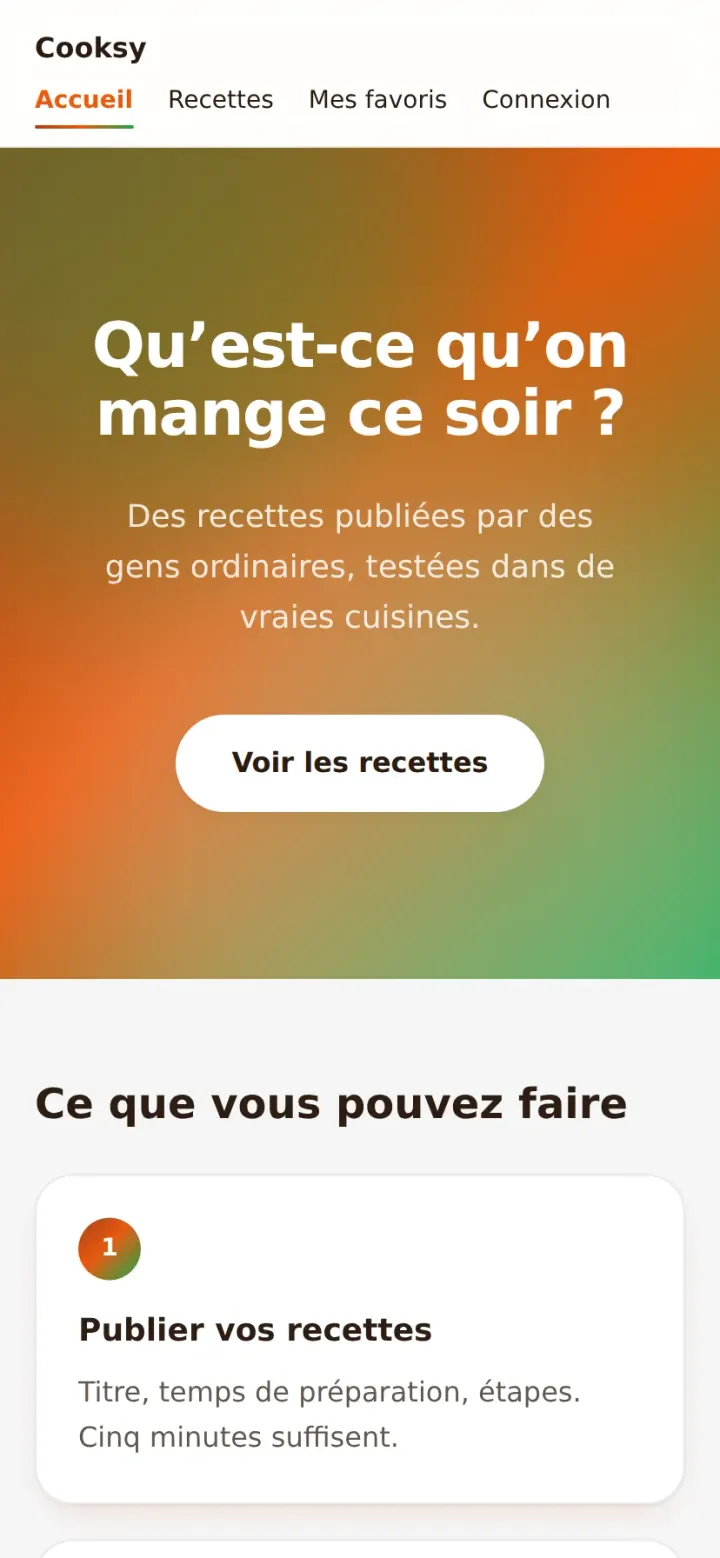
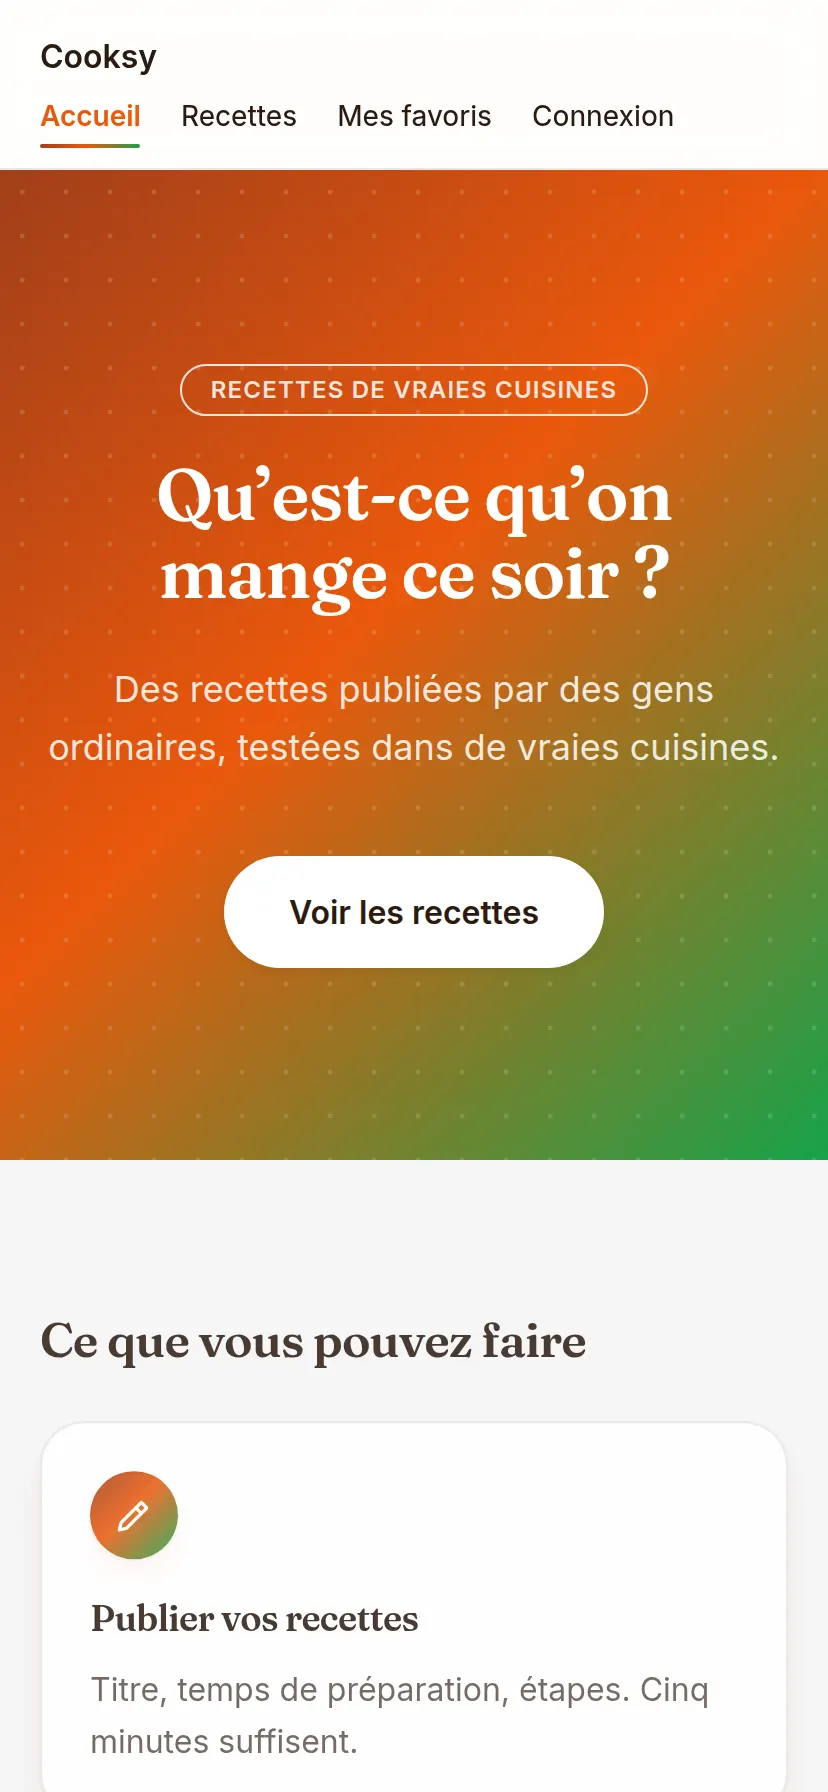
Page d'accueil : six démonstrations qui donnent envie
Chaque démo a maintenant son style (polices, motif, palette), un surtitre,
des icônes sur ses atouts, et selon le métier des étapes, un tableau
comparatif ou des chiffres. Les textes des cartes disent le bénéfice en
une phrase et le prix en clair ; la section annonce six vraies applications
à ouvrir. Captures refaites sur les nouvelles versions.

Claude-Session: https://claude.ai/code/session_0159E9jSQkCegippfh66bzCy

diff --git a/src/server/demos/catalog.ts b/src/server/demos/catalog.ts
@@ -33,9 +33,9 @@ const SHARED: { locale: AppSpec['locale']; specVersion: 1 } = { locale: 'fr', sp
 const RAW_DEMOS: readonly DemoApp[] = [
   {
     slug: 'devisflow',
-    category: 'Outil métier · B2B',
-    summary: 'Devis, suivi des clients et relances pour les artisans.',
-    priceLabel: '19 € par mois',
+    category: 'Artisans · Outil métier',
+    summary: 'Le devis part le soir même, la relance part toute seule, et l’artisan reste sur le chantier.',
+    priceLabel: '19 € par mois et par artisan',
     shotAlt: "Page d'accueil de DevisFlow, une application de devis pour artisans",
     spec: {
       ...SHARED,
@@ -53,8 +53,10 @@ const RAW_DEMOS: readonly DemoApp[] = [
           muted: '#d8dcea',
         },
         radius: 'medium',
-        font: 'system',
+        font: 'geometric',
         mode: 'light',
+        pattern: 'grid',
+        density: 'balanced',
       },
       auth: { enabled: true, allowSignup: false },
       dataModels: [
@@ -86,6 +88,7 @@ const RAW_DEMOS: readonly DemoApp[] = [
             {
               id: 'hero',
               type: 'hero',
+              eyebrow: 'Pour les artisans du bâtiment',
               title: 'Le devis qui part le soir même',
               subtitle:
                 "Rédigez, envoyez, relancez. DevisFlow suit vos clients pendant que vous êtes sur le chantier.",
@@ -100,15 +103,29 @@ const RAW_DEMOS: readonly DemoApp[] = [
                 {
                   title: 'Devis en trois minutes',
                   body: 'Vos prestations habituelles sont enregistrées : un devis se compose en quelques clics.',
+                  icon: 'pen',
                 },
                 {
                   title: 'Relances automatiques',
                   body: "Un client n'a pas répondu depuis huit jours ? Il reçoit un rappel, sans que vous y pensiez.",
+                  icon: 'bell',
                 },
                 {
                   title: 'Suivi clair',
                   body: 'Envoyés, acceptés, refusés : vous savez en un coup d’œil où vous en êtes.',
+                  icon: 'chart',
                 },
+              ],
+            },
+            {
+              id: 'etapes',
+              type: 'steps',
+              title: 'Du chantier au devis signé',
+              items: [
+                { title: 'Vous choisissez vos prestations', body: 'Dans votre liste, avec vos prix. Rien à retaper.', icon: 'check' },
+                { title: 'Le devis part', body: 'Par e-mail, depuis le téléphone, avec vos mentions légales.', icon: 'mail' },
+                { title: 'DevisFlow relance', body: 'Huit jours sans réponse : un rappel poli part tout seul.', icon: 'bell' },
+                { title: 'Vous signez', body: 'Accepté, refusé, à relancer : tout est dans la même liste.', icon: 'star' },
               ],
             },
             {
@@ -118,6 +135,18 @@ const RAW_DEMOS: readonly DemoApp[] = [
                 { label: 'Temps par devis', value: '3 minutes' },
                 { label: 'Relances à écrire', value: 'Aucune' },
                 { label: 'Sur le chantier', value: 'Depuis le téléphone' },
+              ],
+            },
+            {
+              id: 'comparatif',
+              type: 'comparison',
+              title: 'DevisFlow ou le carnet',
+              columns: ['DevisFlow', 'Carnet et tableur'],
+              rows: [
+                { label: 'Devis envoyé le jour même', values: ['✓', 'Le week-end'] },
+                { label: 'Relance sans y penser', values: ['✓', '—'] },
+                { label: 'Prestations mémorisées', values: ['✓', '—'] },
+                { label: 'Vue de tous les devis en cours', values: ['✓', 'À la main'] },
               ],
             },
             {
@@ -201,9 +230,9 @@ const RAW_DEMOS: readonly DemoApp[] = [
   },
   {
     slug: 'bookizy',
-    category: 'Réservation · Indépendants',
-    summary: 'Prise de rendez-vous pour coachs, thérapeutes et indépendants.',
-    priceLabel: '14 € par mois',
+    category: 'Indépendants · Réservation',
+    summary: 'Vos clients réservent seuls, à toute heure, et reçoivent un rappel la veille. Votre agenda se remplit pendant vos séances.',
+    priceLabel: '14 € par mois, sans commission',
     shotAlt: 'Page de réservation de Bookizy, avec agenda et créneaux',
     spec: {
       ...SHARED,
@@ -257,6 +286,7 @@ const RAW_DEMOS: readonly DemoApp[] = [
             {
               id: 'hero',
               type: 'hero',
+              eyebrow: 'Coachs, thérapeutes, indépendants',
               title: 'Réservez votre séance en trente secondes',
               subtitle:
                 'Choisissez un créneau, recevez votre confirmation, et un rappel la veille. Rien à installer.',
@@ -401,8 +431,8 @@ const RAW_DEMOS: readonly DemoApp[] = [
   {
     slug: 'fitpilot',
     category: 'Sport · Grand public',
-    summary: 'Programmes personnalisés et suivi de progression.',
-    priceLabel: '9,90 € par mois',
+    summary: 'Un programme qui s’adapte aux semaines chargées au lieu de culpabiliser. Chaque séance enregistrée, la progression visible.',
+    priceLabel: 'Gratuit pour essayer, puis 9,90 € par mois',
     shotAlt: 'Interface sombre de FitPilot, application de suivi d’entraînement',
     spec: {
       ...SHARED,
@@ -420,8 +450,10 @@ const RAW_DEMOS: readonly DemoApp[] = [
           muted: '#334155',
         },
         radius: 'large',
-        font: 'rounded',
+        font: 'bold',
         mode: 'dark',
+        pattern: 'grid',
+        density: 'balanced',
       },
       auth: { enabled: true, allowSignup: false },
       dataModels: [
@@ -454,6 +486,7 @@ const RAW_DEMOS: readonly DemoApp[] = [
             {
               id: 'hero',
               type: 'hero',
+              eyebrow: 'Programme adaptatif',
               title: 'Un programme qui tient compte de vos semaines chargées',
               subtitle:
                 'Trois séances prévues, deux réalisées ? Le programme s’ajuste au lieu de vous culpabiliser.',
@@ -477,15 +510,28 @@ const RAW_DEMOS: readonly DemoApp[] = [
                 {
                   title: 'Séances guidées',
                   body: 'Chaque exercice est expliqué, avec le temps de repos et la charge conseillée.',
+                  icon: 'play',
                 },
                 {
                   title: 'Progression visible',
                   body: 'Vos charges et vos durées se comparent d’une semaine à l’autre.',
+                  icon: 'chart',
                 },
                 {
                   title: 'Objectifs réalistes',
                   body: 'Vous indiquez votre temps disponible, le programme se cale dessus.',
+                  icon: 'target',
                 },
+              ],
+            },
+            {
+              id: 'etapes',
+              type: 'steps',
+              title: 'Votre semaine, en trois gestes',
+              items: [
+                { title: 'Dites votre temps', body: 'Deux séances de trente minutes ? Le programme se cale dessus.', icon: 'clock' },
+                { title: 'Faites la séance', body: 'Exercice par exercice, repos compris, depuis le téléphone.', icon: 'bolt' },
+                { title: 'Notez le ressenti', body: 'Facile, correct, difficile : la semaine suivante s’ajuste.', icon: 'smile' },
               ],
             },
             {
@@ -568,7 +614,7 @@ const RAW_DEMOS: readonly DemoApp[] = [
   {
     slug: 'cooksy',
     category: 'Communauté · Grand public',
-    summary: 'Chacun publie ses recettes, retrouve ses favorites et suit ses idées de repas.',
+    summary: 'Des recettes publiées par de vraies cuisines, avec les temps réels, et les vôtres en favorites.',
     priceLabel: 'Gratuit, puis 4,90 € par mois',
     shotAlt: 'Page recettes de Cooksy, avec la liste des recettes publiées',
     spec: {
@@ -732,9 +778,9 @@ const RAW_DEMOS: readonly DemoApp[] = [
   },
   {
     slug: 'immotrack',
-    category: 'Immobilier · B2B',
-    summary: 'Gestion des biens, des prospects, des visites et du suivi commercial.',
-    priceLabel: '39 € par mois',
+    category: 'Immobilier · Agences',
+    summary: 'Chaque bien, chaque prospect, chaque visite. Les relances remontent toutes seules, le tableur part à la poubelle.',
+    priceLabel: '39 € par mois et par agent',
     shotAlt: 'Tableau de bord sobre d’ImmoTrack, application de suivi immobilier',
     spec: {
       ...SHARED,
@@ -752,8 +798,10 @@ const RAW_DEMOS: readonly DemoApp[] = [
           muted: '#cbd5e1',
         },
         radius: 'small',
-        font: 'system',
+        font: 'elegant',
         mode: 'light',
+        pattern: 'lines',
+        density: 'balanced',
       },
       auth: { enabled: true, allowSignup: false },
       dataModels: [
@@ -785,6 +833,7 @@ const RAW_DEMOS: readonly DemoApp[] = [
             {
               id: 'hero',
               type: 'hero',
+              eyebrow: 'Pour les agences et les indépendants',
               title: 'Votre portefeuille, lisible en un écran',
               subtitle:
                 'Biens, prospects, visites et relances. Sans tableur, et sans rien oublier.',
@@ -808,16 +857,39 @@ const RAW_DEMOS: readonly DemoApp[] = [
                 {
                   title: 'Fiche par bien',
                   body: 'Prix, état d’avancement, historique des visites et notes internes.',
+                  icon: 'home',
                 },
                 {
                   title: 'Prospects rattachés',
                   body: 'Qui a visité quoi, qui rappeler, et quand.',
+                  icon: 'users',
                 },
                 {
                   title: 'Rappels de relance',
                   body: 'Une visite sans suite depuis dix jours remonte en haut de la liste.',
+                  icon: 'bell',
                 },
               ],
+            },
+            {
+              id: 'comparatif',
+              type: 'comparison',
+              title: 'Ce que le tableur ne fait pas',
+              columns: ['ImmoTrack', 'Tableur'],
+              rows: [
+                { label: 'Relance qui remonte toute seule', values: ['✓', '—'] },
+                { label: 'Historique des visites par bien', values: ['✓', 'Onglet par onglet'] },
+                { label: 'Consultable depuis une visite', values: ['✓', '—'] },
+                { label: 'Portefeuille isolé par agent', values: ['✓', '—'] },
+              ],
+            },
+            {
+              id: 'appel',
+              type: 'cta',
+              title: 'Un après-midi pour tout saisir',
+              body: 'Vos biens en cours, vos prospects, vos prochaines visites. Ensuite, ImmoTrack tient le fil.',
+              label: 'Voir le tarif',
+              pageId: 'tarif',
             },
           ],
         },
@@ -891,9 +963,9 @@ const RAW_DEMOS: readonly DemoApp[] = [
   },
   {
     slug: 'studyflow',
-    category: 'Éducation · Grand public',
-    summary: 'Cours, fiches de révision et quiz pour réviser sans se disperser.',
-    priceLabel: '12 € par mois',
+    category: 'Éducation · Familles',
+    summary: 'Une fiche, un quiz, dix minutes. Les notions ratées reviennent, les acquises s’espacent.',
+    priceLabel: '12 € par mois pour toute la famille',
     shotAlt: 'Page de StudyFlow, application de fiches de révision',
     spec: {
       ...SHARED,
@@ -910,9 +982,11 @@ const RAW_DEMOS: readonly DemoApp[] = [
           text: '#1c1533',
           muted: '#ded9f0',
         },
-        radius: 'medium',
-        font: 'serif',
+        radius: 'large',
+        font: 'playful',
         mode: 'light',
+        pattern: 'dots',
+        density: 'balanced',
       },
       auth: { enabled: true, allowSignup: false },
       dataModels: [
@@ -944,6 +1018,7 @@ const RAW_DEMOS: readonly DemoApp[] = [
             {
               id: 'hero',
               type: 'hero',
+              eyebrow: 'Du primaire au lycée',
               title: 'Réviser dix minutes vaut mieux que relire deux heures',
               subtitle:
                 'Des fiches courtes, un quiz après chacune, et la liste de ce qui reste à revoir.',
@@ -958,15 +1033,37 @@ const RAW_DEMOS: readonly DemoApp[] = [
                 {
                   title: 'Une fiche par notion',
                   body: 'Assez courte pour être lue avant le bus, assez complète pour servir.',
+                  icon: 'book',
                 },
                 {
                   title: 'Un quiz derrière',
                   body: 'Trois questions suffisent à savoir si la notion est acquise.',
+                  icon: 'check',
                 },
                 {
                   title: 'Ce qui reste à revoir',
                   body: 'Les notions ratées reviennent, les autres s’espacent.',
+                  icon: 'clock',
                 },
+              ],
+            },
+            {
+              id: 'etapes',
+              type: 'steps',
+              title: 'Dix minutes, chaque jour',
+              items: [
+                { title: 'Lire la fiche', body: 'Une notion, une page, trois minutes.', icon: 'book' },
+                { title: 'Faire le quiz', body: 'Trois questions, tout de suite après.', icon: 'pen' },
+                { title: 'Laisser StudyFlow décider', body: 'Ce qui est raté revient demain, ce qui est su revient dans une semaine.', icon: 'calendar' },
+              ],
+            },
+            {
+              id: 'chiffres',
+              type: 'stats',
+              items: [
+                { label: 'par fiche', value: '3 minutes' },
+                { label: 'questions par quiz', value: '3' },
+                { label: 'matières au choix', value: '4' },
               ],
             },
             {

diff --git a/src/i18n/messages/fr.ts b/src/i18n/messages/fr.ts
@@ -464,12 +464,12 @@ export const fr = {
     'Un générateur d’applications, lui, commence à l’étape « Application ».',
 
   // ── Les démonstrations ───────────────────────────────────────────────────
-  'landing.showcaseTitle': 'Créé avec Evoliia',
+  'landing.showcaseTitle': 'Créé avec Evoliia, en ligne aujourd’hui',
   'landing.showcaseBody':
-    "Découvrez différents types de projets qu’il est possible d’imaginer et de construire avec Evoliia. Chacun est en ligne : vous pouvez l’ouvrir.",
+    "Six applications, six métiers, six styles. Chacune a été décrite en quelques phrases, construite par Evoliia, et publiée telle quelle. Ouvrez-les, cliquez partout : ce sont de vraies applications, pas des images.",
   'landing.showcaseMobileLabel': 'La même application sur téléphone',
   'landing.buildOpen': 'Voir la démo',
-  'landing.buildSimilar': 'Créer quelque chose de similaire',
+  'landing.buildSimilar': 'Créer la mienne',
   'landing.showcaseDemoNote': 'Exemples de démonstration créés avec Evoliia, pas des clients.',
   'landing.showcaseNote':
     "Ce sont des applications web. Sur téléphone, elles s’ajoutent à l’écran d’accueil depuis le navigateur : icône, nom, ouverture en plein écran, sans barre d’adresse. Elles ne passent pas par l’App Store ni par Google Play, où ces boutiques décident seules et où nous ne promettons rien à leur place.",

diff --git a/src/i18n/messages/en.ts b/src/i18n/messages/en.ts
@@ -443,12 +443,12 @@ export const en: Record<keyof typeof fr, string> = {
   'landing.timelineEvoliia': 'Evoliia walks the whole line with you, from the idea onward.',
   'landing.timelineOthers': 'An app builder, by contrast, starts at the “App” step.',
 
-  'landing.showcaseTitle': 'Built with Evoliia',
+  'landing.showcaseTitle': 'Built with Evoliia, live today',
   'landing.showcaseBody':
-    'A look at the kinds of project you can imagine and build with Evoliia. Each one is online: you can open it.',
+    'Six apps, six trades, six styles. Each was described in a few sentences, built by Evoliia and published as is. Open them, click around: they are real apps, not pictures.',
   'landing.showcaseMobileLabel': 'The same app on a phone',
   'landing.buildOpen': 'See the demo',
-  'landing.buildSimilar': 'Build something similar',
+  'landing.buildSimilar': 'Build mine',
   'landing.showcaseDemoNote': 'Demonstration examples built with Evoliia, not customers.',
   'landing.showcaseNote':
     'These are web apps. On a phone they add themselves to the home screen straight from the browser: icon, name, full screen, no address bar. They do not go through the App Store or Google Play, where those stores decide alone and we promise nothing on their behalf.',
